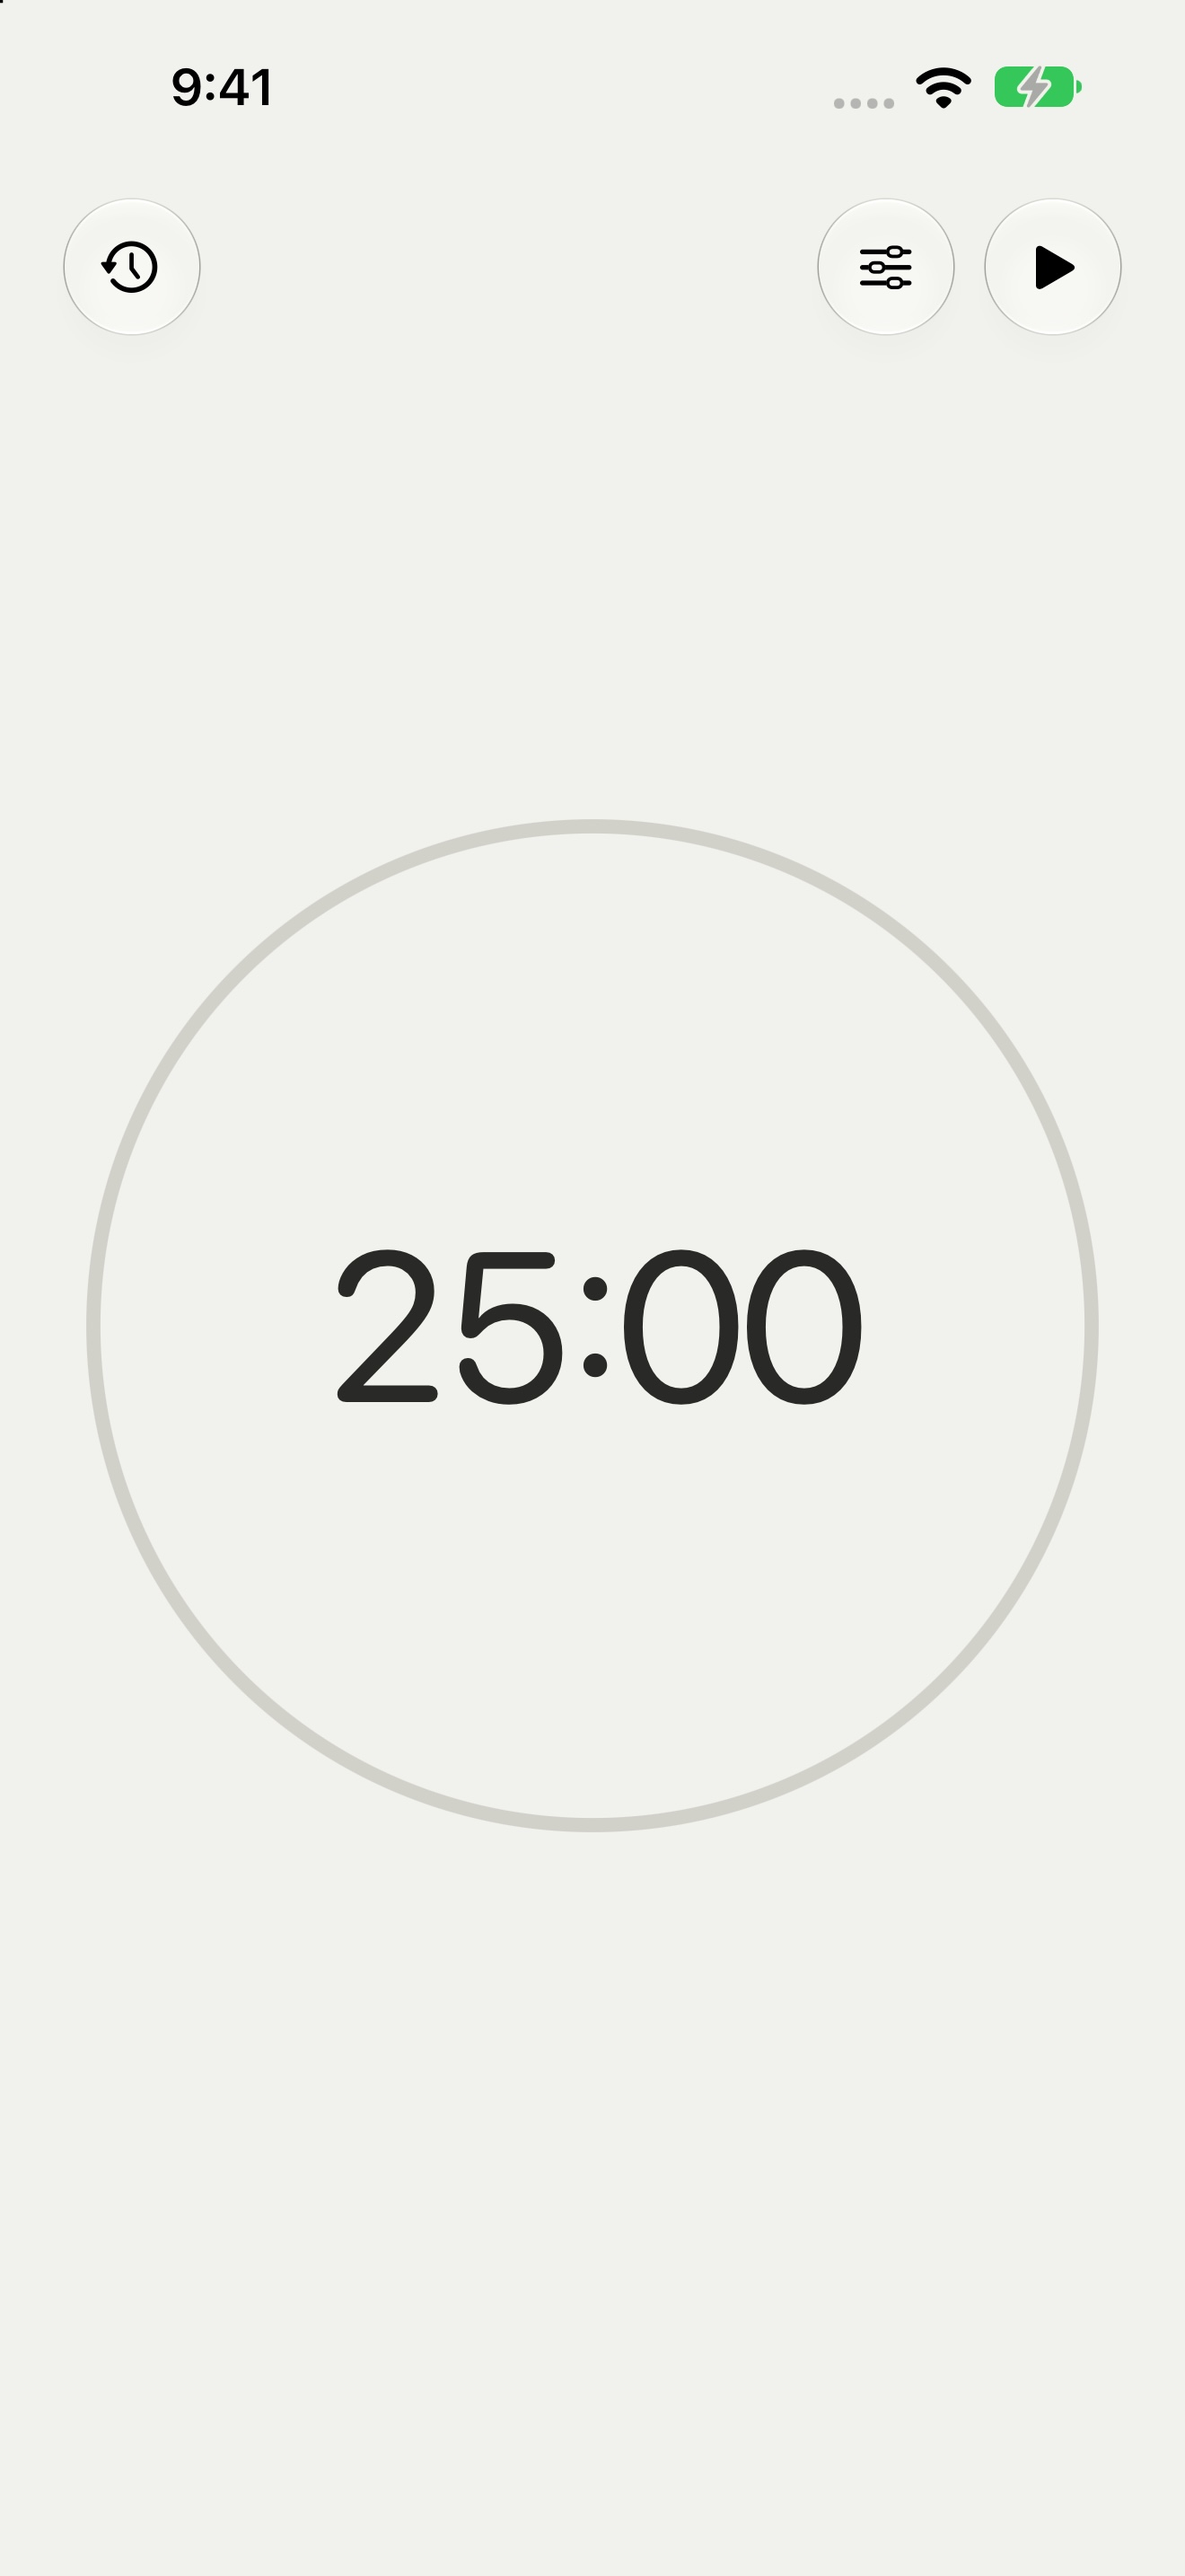
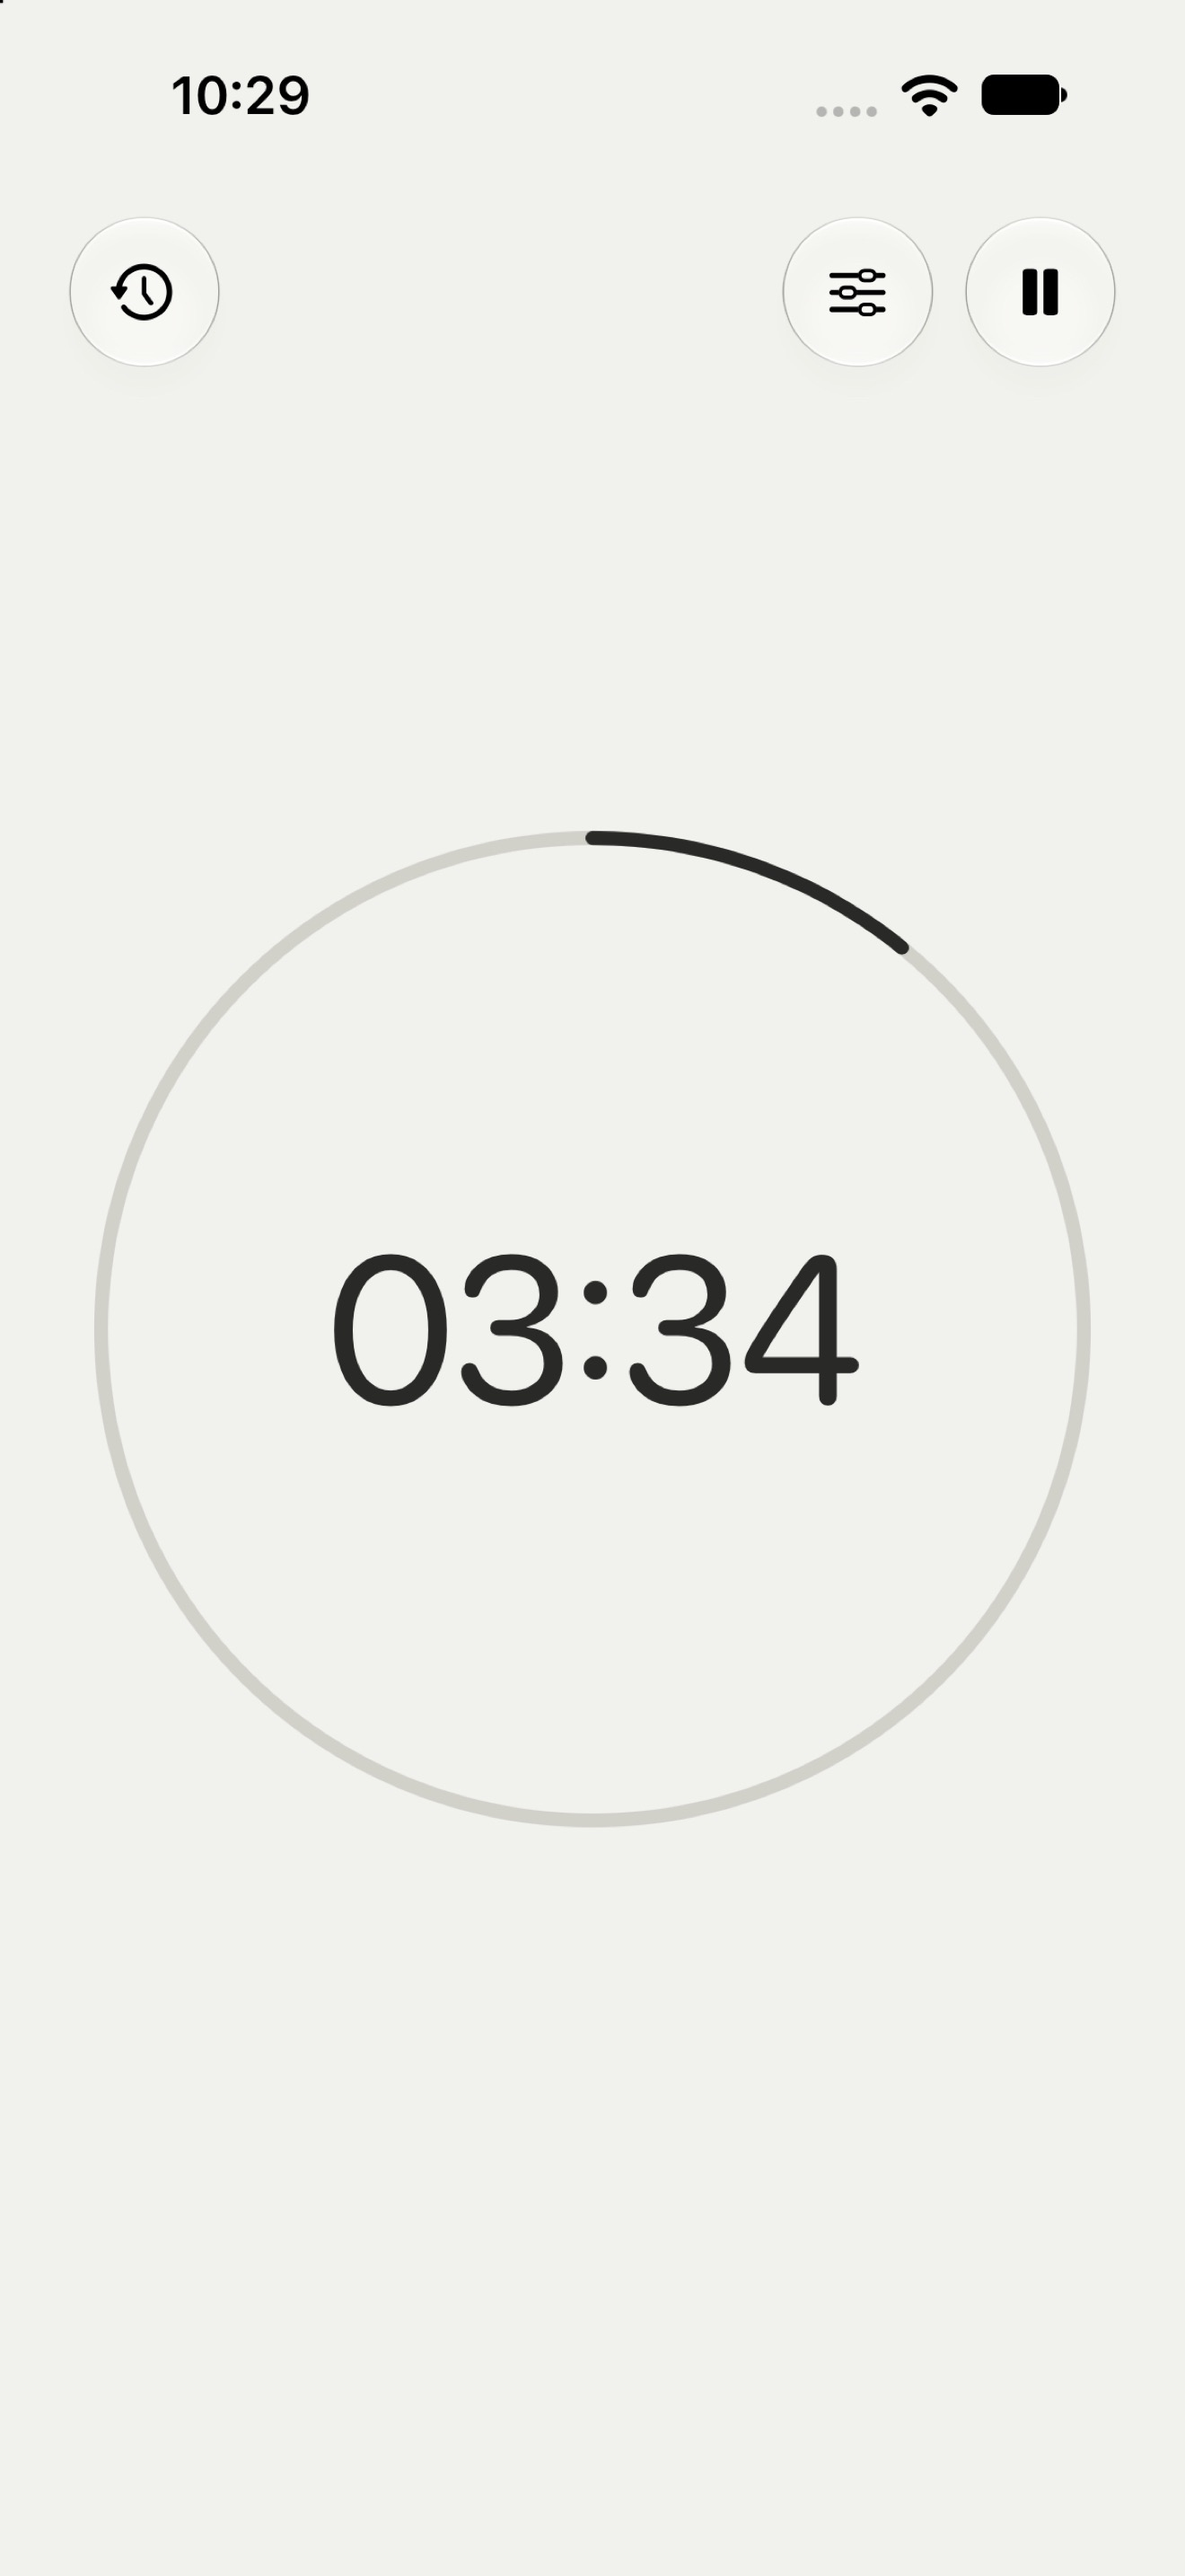
Expand larger iPhone App Store screenshots

diff --git a/docs/app-store-submission.md b/docs/app-store-submission.md
@@ -4,7 +4,7 @@ Little While is an iPhone-only app for iOS 18 or later. Prepare a release with t
 
 ## Release assets
 
-`config.json` contains the description, keywords, screenshots, App Review contact, and review instructions. The iPhone 6.9-inch screenshot set uses `APP_IPHONE_67`; the supplied iPhone 6.3-inch captures use `APP_IPHONE_61`, the API display group for those devices. The larger screenshot is captured directly from iPhone 17 Pro Max with `mise publish:simulate iphone` and `xcrun simctl io <device-id> screenshot --type=jpeg`.
+`config.json` contains the description, keywords, screenshots, App Review contact, and review instructions. Both iPhone screenshot sets show the focus timer, Mr Smiles theme, settings, and history. The iPhone 6.9-inch set uses `APP_IPHONE_67`; its four images are resized copies of the supplied captures, at 1320 × 2868 pixels. The original iPhone 6.3-inch captures use `APP_IPHONE_61`, the API display group for those devices.
 
 The app includes `PrivacyInfo.xcprivacy` declaring no tracking or collected data and the `CA92.1` reason for accessing its own UserDefaults. Settings links to the public privacy policy.
 
